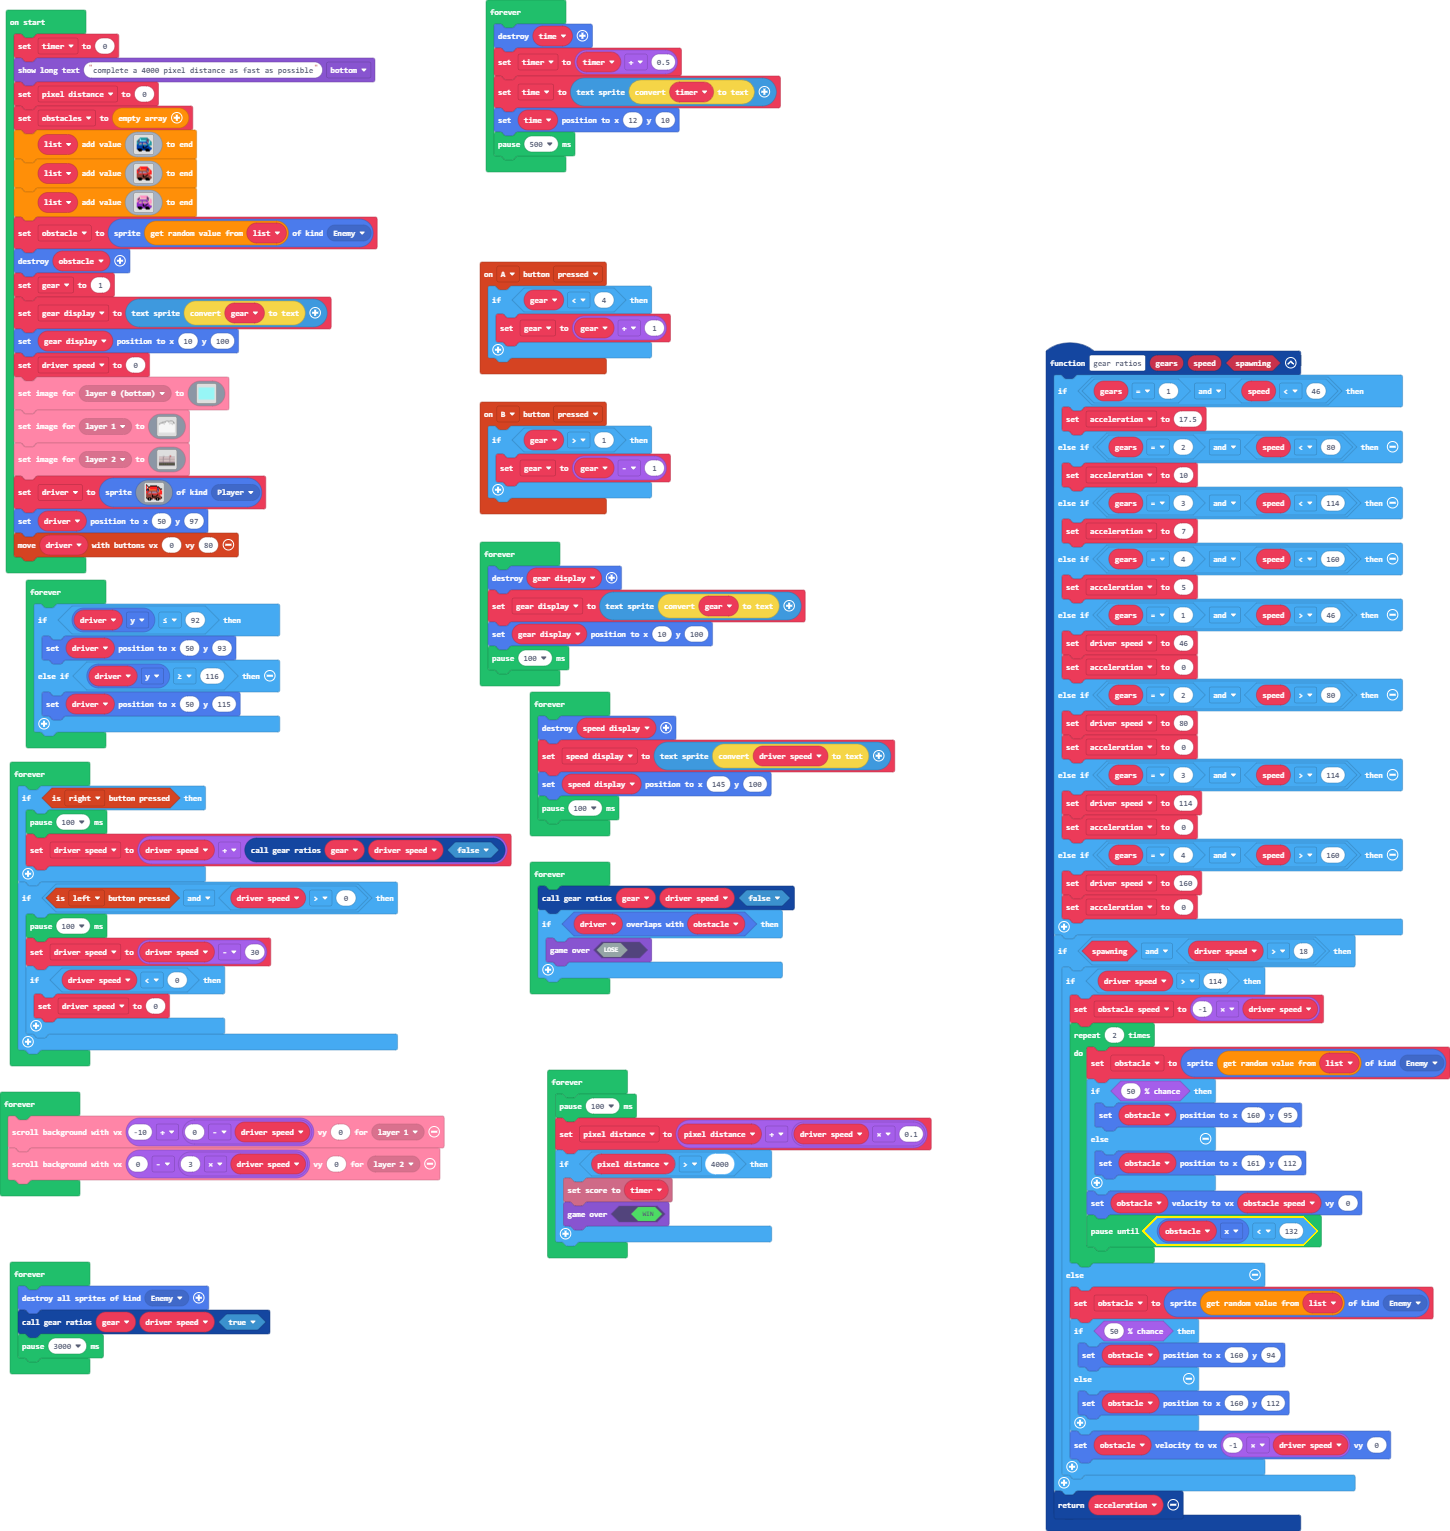
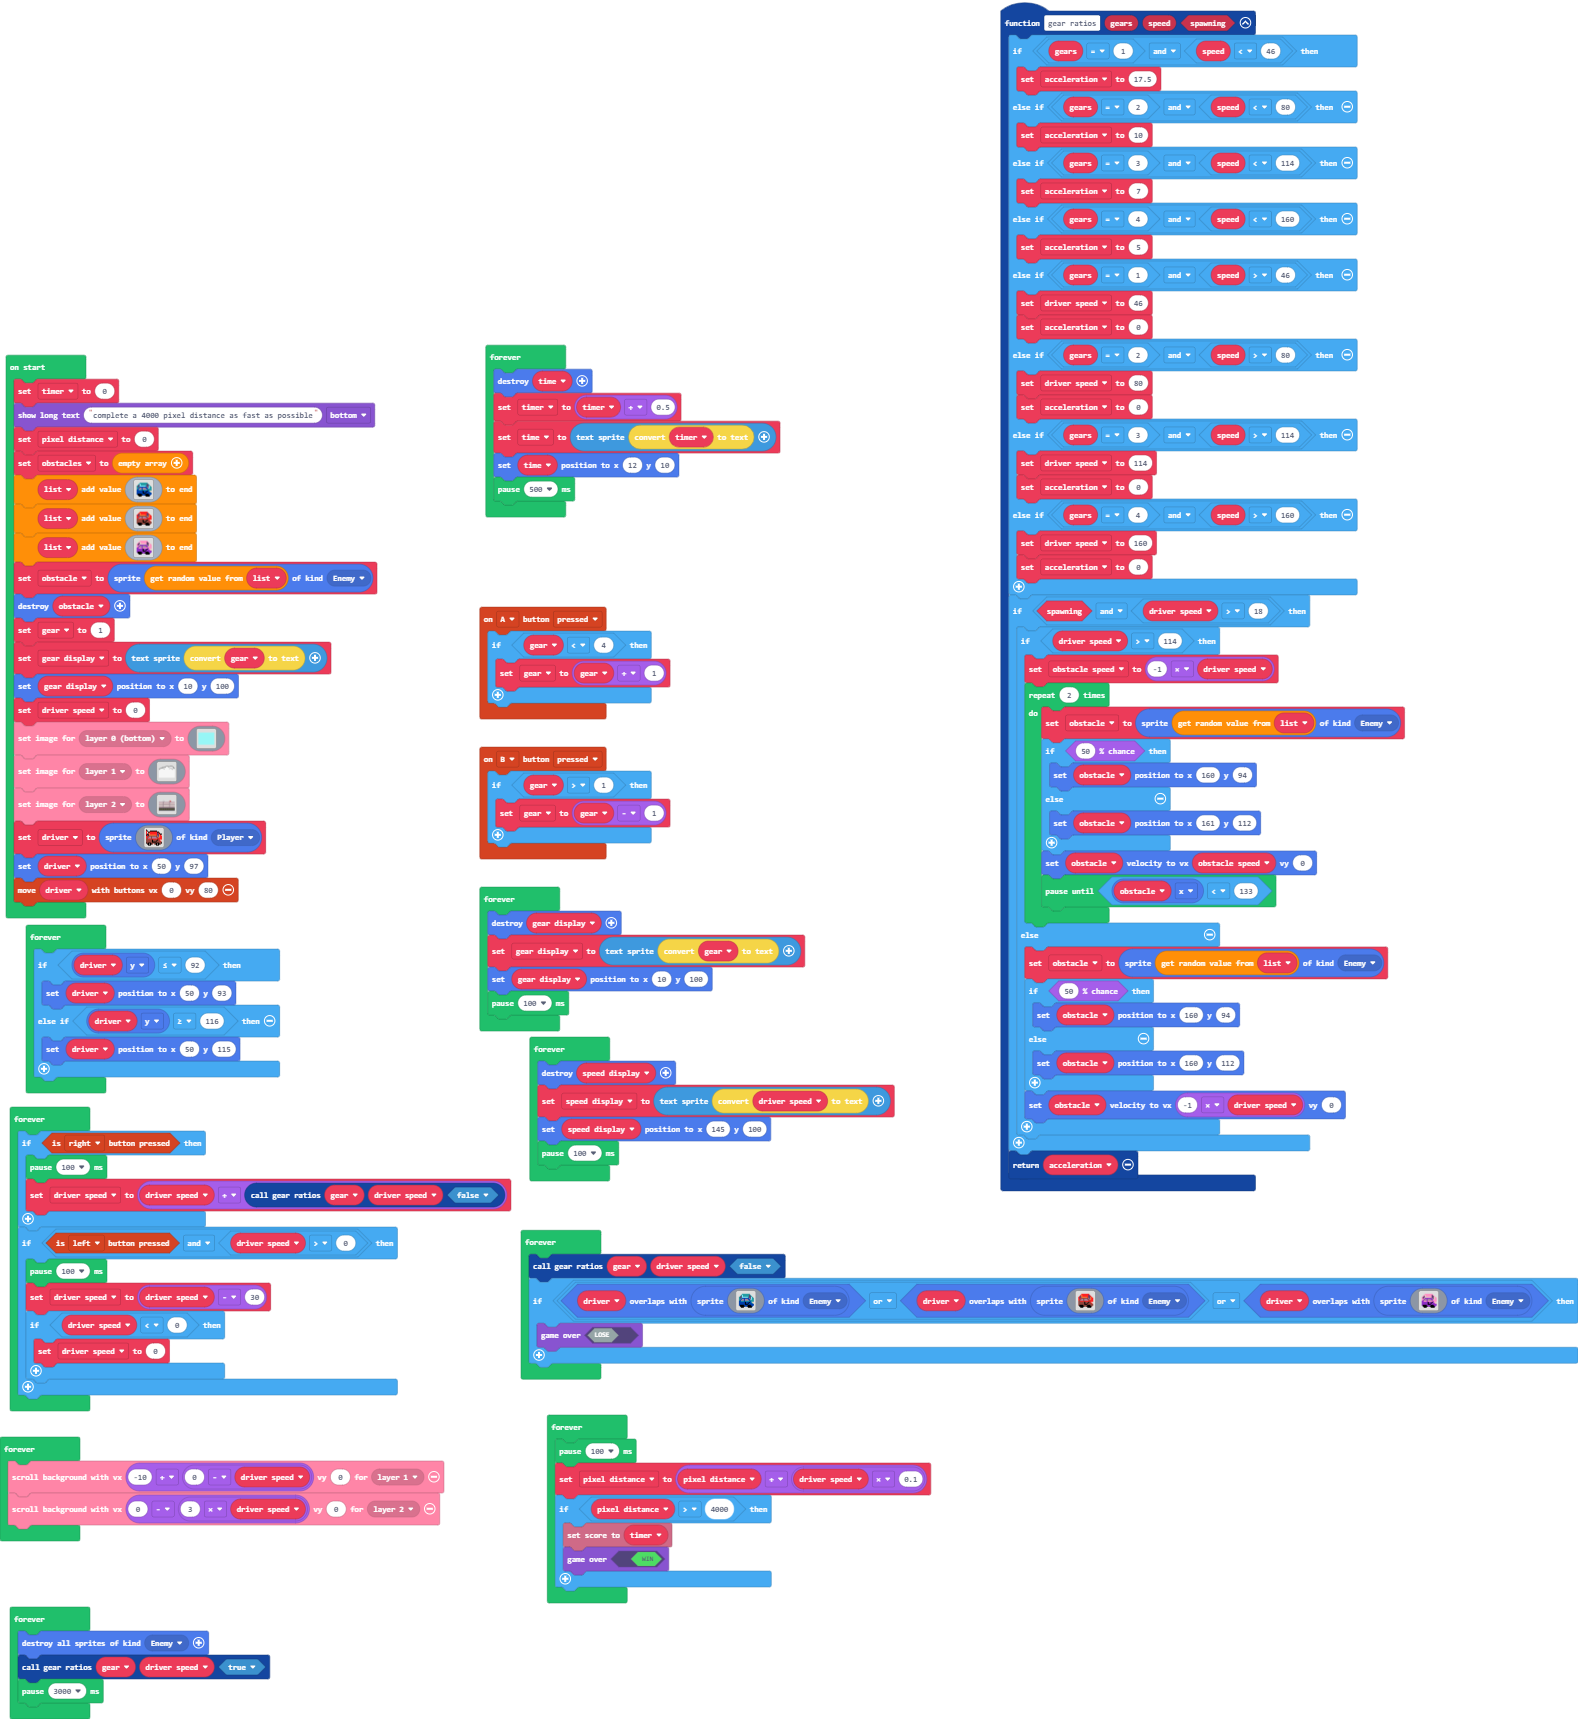
Update main.blocks, main.ts

diff --git a/main.ts b/main.ts
@@ -29,12 +29,12 @@ function gear_ratios (gears: number, speed: number, spawning: boolean) {
             for (let index = 0; index < 2; index++) {
                 obstacle = sprites.create(list._pickRandom(), SpriteKind.Enemy)
                 if (Math.percentChance(50)) {
-                    obstacle.setPosition(160, 95)
+                    obstacle.setPosition(160, 94)
                 } else {
                     obstacle.setPosition(161, 112)
                 }
                 obstacle.setVelocity(obstacle_speed, 0)
-                pauseUntil(() => obstacle.x < 132)
+                pauseUntil(() => obstacle.x < 133)
             }
         } else {
             obstacle = sprites.create(list._pickRandom(), SpriteKind.Enemy)
@@ -419,7 +419,58 @@ forever(function () {
 })
 forever(function () {
     gear_ratios(gear, driver_speed, false)
-    if (driver.overlapsWith(obstacle)) {
+    if (driver.overlapsWith(sprites.create(img`
+        . . . . . . . . . . . . . . . . 
+        . . . . 6 6 6 6 6 6 6 6 . . . . 
+        . . . 6 9 6 6 6 6 6 6 c 6 . . . 
+        . . 6 c 9 6 6 6 6 6 6 c c 6 . . 
+        . 6 c c 9 9 9 9 9 9 6 c c 9 6 d 
+        . 6 c 6 8 8 8 8 8 8 8 b c 9 6 6 
+        . 6 6 8 b b 8 b b b 8 8 b 9 6 6 
+        . 6 8 b b b 8 b b b b 8 6 6 6 6 
+        . 8 8 6 6 6 8 6 6 6 6 6 8 6 6 6 
+        . 8 8 8 8 8 8 f 8 8 8 f 8 6 d d 
+        . 8 8 8 8 8 8 f 8 8 f 8 8 8 6 d 
+        . 8 8 8 8 8 8 f f f 8 8 8 8 8 8 
+        . 8 f f f f 8 8 8 8 f f f 8 8 8 
+        . . f f f f f 8 8 f f f f f 8 . 
+        . . . f f f . . . . f f f f . . 
+        . . . . . . . . . . . . . . . . 
+        `, SpriteKind.Enemy)) || driver.overlapsWith(sprites.create(img`
+        . . . . . . . . . . . . . . . . 
+        . . . . 2 2 2 2 2 2 2 2 . . . . 
+        . . . 2 4 2 2 2 2 2 2 c 2 . . . 
+        . . 2 c 4 2 2 2 2 2 2 c c 2 . . 
+        . 2 c c 4 4 4 4 4 4 2 c c 4 2 d 
+        . 2 c 2 e e e e e e e b c 4 2 2 
+        . 2 2 e b b e b b b e e b 4 2 2 
+        . 2 e b b b e b b b b e 2 2 2 2 
+        . e e 2 2 2 e 2 2 2 2 2 e 2 2 2 
+        . e e e e e e f e e e f e 2 d d 
+        . e e e e e e f e e f e e e 2 d 
+        . e e e e e e f f f e e e e e e 
+        . e f f f f e e e e f f f e e e 
+        . . f f f f f e e f f f f f e . 
+        . . . f f f . . . . f f f f . . 
+        . . . . . . . . . . . . . . . . 
+        `, SpriteKind.Enemy)) || driver.overlapsWith(sprites.create(img`
+        . . . . . . . . . . . . . . . . 
+        . . . . 3 3 3 3 3 3 3 3 . . . . 
+        . . . 3 d 3 3 3 3 3 3 c 3 . . . 
+        . . 3 c d 3 3 3 3 3 3 c c 3 . . 
+        . 3 c c d d d d d d 3 c c d 3 d 
+        . 3 c 3 a a a a a a a b c d 3 3 
+        . 3 3 a b b a b b b a a b d 3 3 
+        . 3 a b b b a b b b b a 3 3 3 3 
+        . a a 3 3 3 a 3 3 3 3 3 a 3 3 3 
+        . a a a a a a f a a a f a 3 d d 
+        . a a a a a a f a a f a a a 3 d 
+        . a a a a a a f f f a a a a a a 
+        . a f f f f a a a a f f f a a a 
+        . . f f f f f a a f f f f f a . 
+        . . . f f f . . . . f f f f . . 
+        . . . . . . . . . . . . . . . . 
+        `, SpriteKind.Enemy))) {
         game.gameOver(false)
     }
 })
